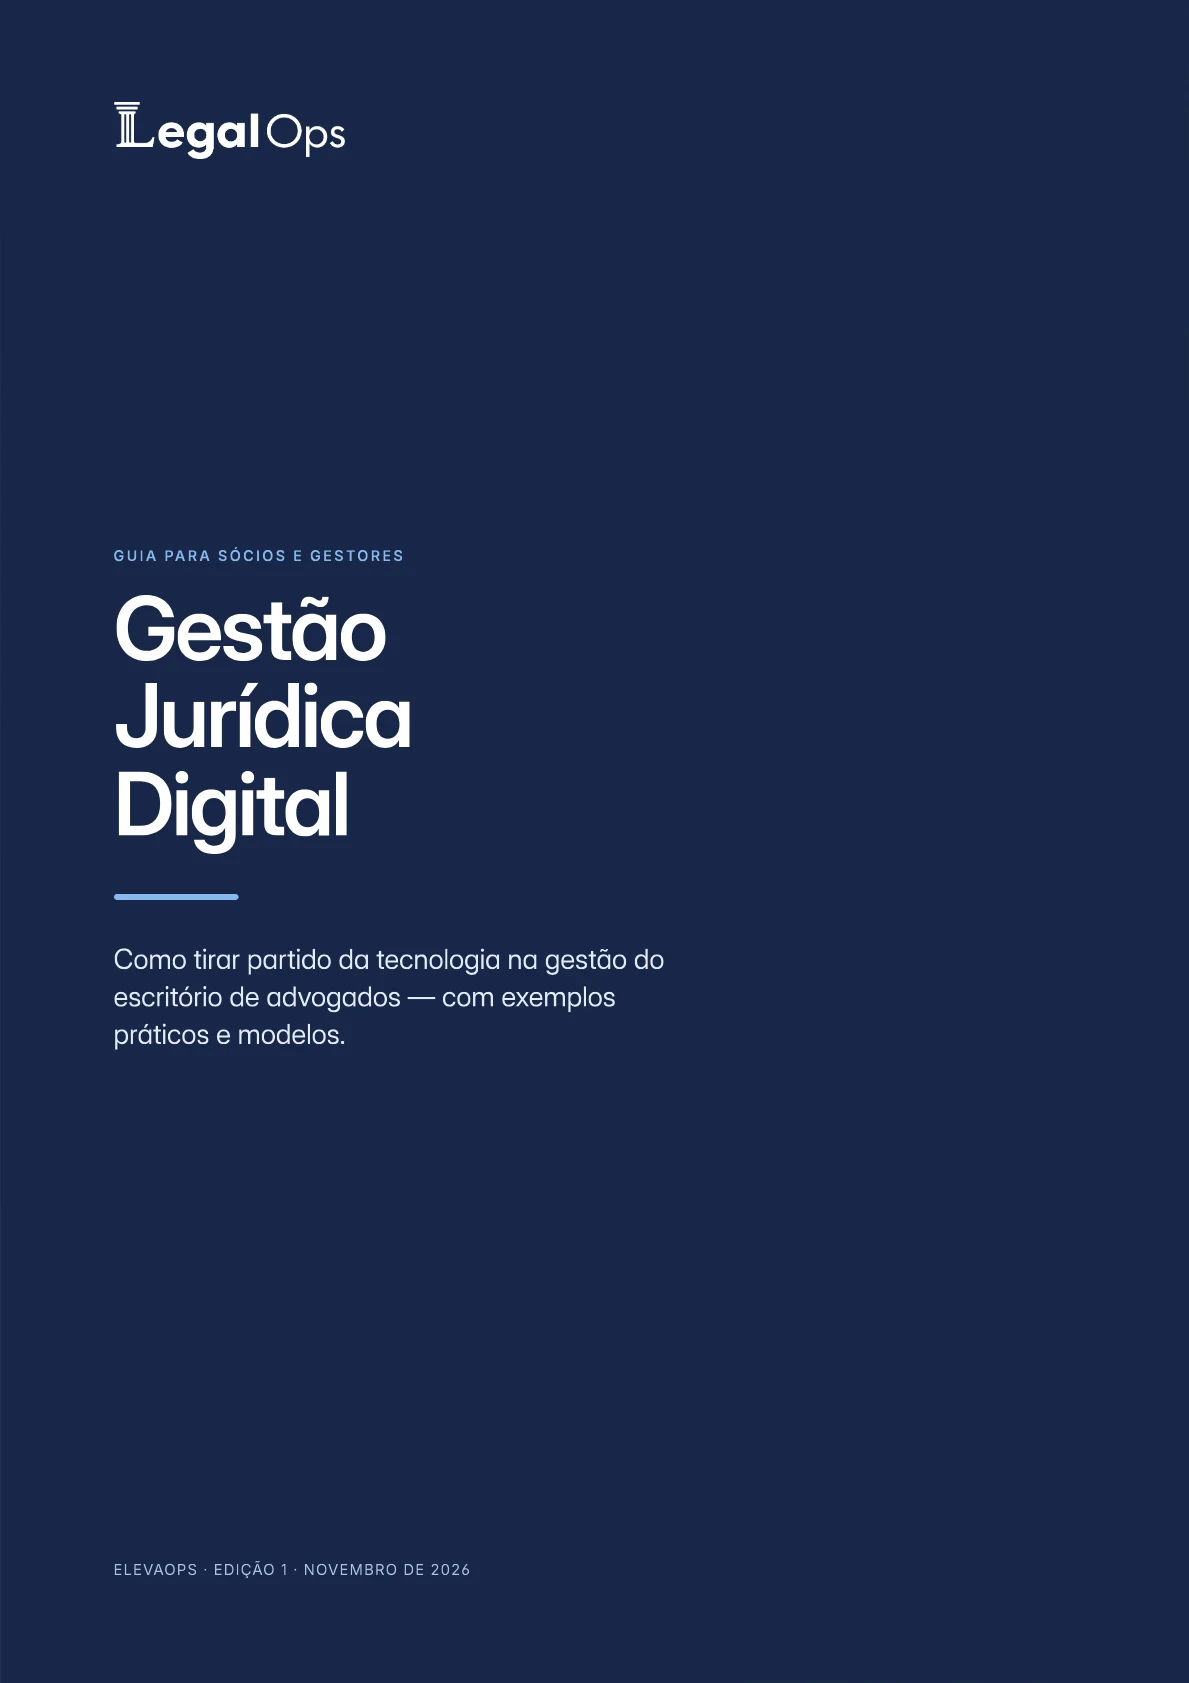
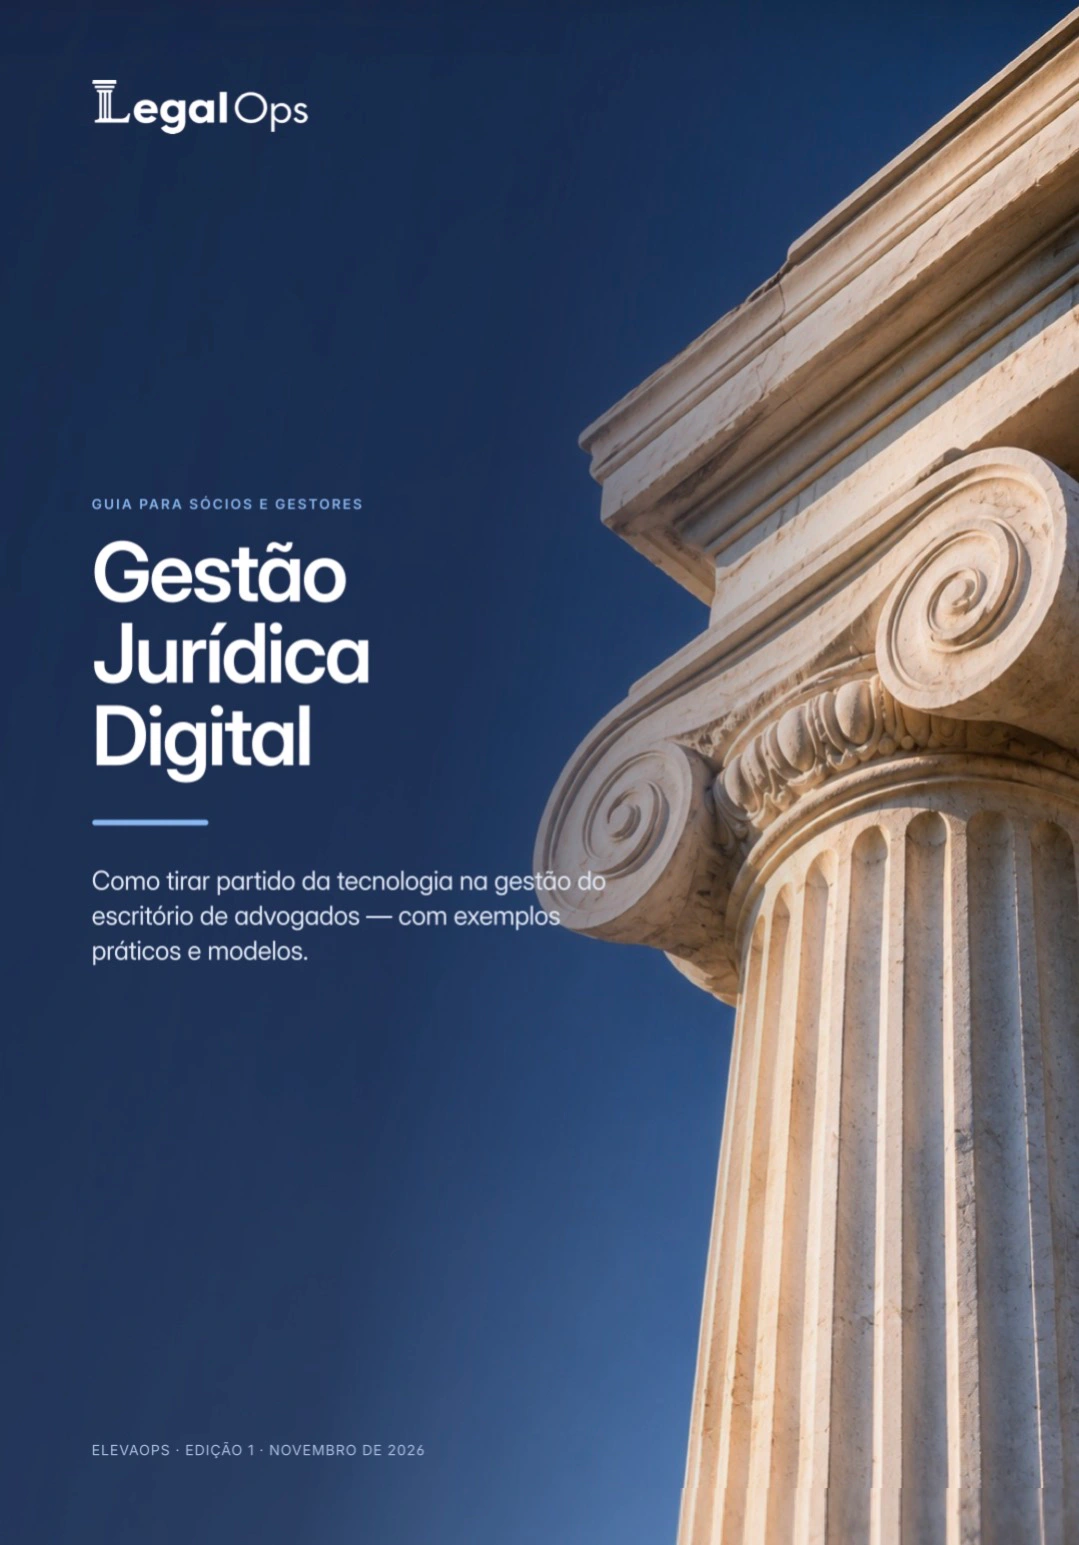
Use the manual's real cover on the page, emails and link preview

diff --git a/lib/guide.ts b/lib/guide.ts
@@ -55,8 +55,8 @@ const GESTAO_PT: GuideEdition = {
   pdfFileName: 'Gestão Jurídica Digital - ElevaOps.pdf',
   pdfInfo: 'PDF · 15 páginas',
   cover: '/guides/gestao-juridica-digital-capa.webp',
-  coverWidth: 1189,
-  coverHeight: 1683,
+  coverWidth: 1079,
+  coverHeight: 1545,
   emailCover: '/email/guide-cover-gestao.jpg',
   ogImage: '/guides/gestao-juridica-digital-og.png',
   emailNoun: 'manual',

diff --git a/components/guide/GestaoLanding.tsx b/components/guide/GestaoLanding.tsx
@@ -41,6 +41,7 @@ function CoverStack() {
           width={GUIDE.coverWidth}
           height={GUIDE.coverHeight}
           sizes="(min-width: 640px) 230px, 40vw"
+          quality={90}
           priority
           className={'relative ' + page + ' shadow-[0_30px_60px_-25px_rgba(0,30,90,0.6)]'}
         />
